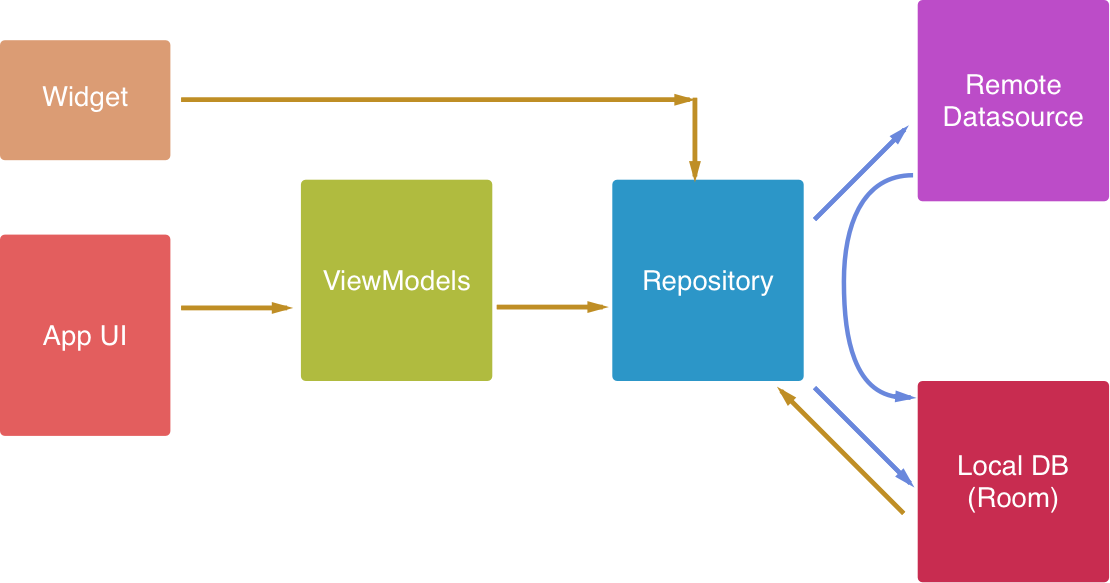
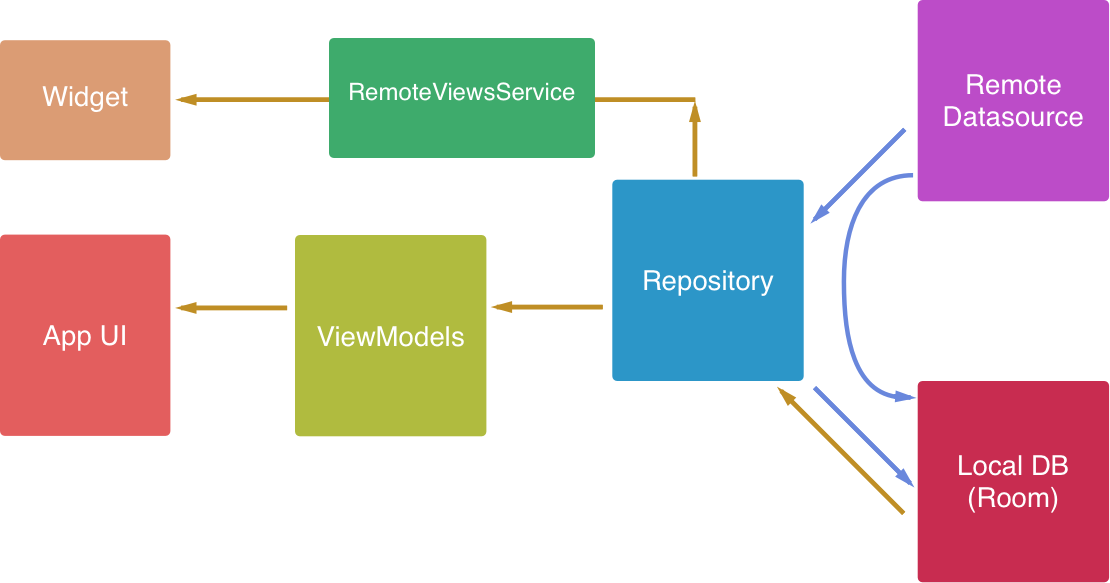
changed repository pattern image and deleted unused widget and code

diff --git a/app/src/main/java/org/drulabs/petescafe/widget/StepWidgetService.java b/app/src/main/java/org/drulabs/petescafe/widget/StepWidgetService.java
@@ -32,11 +32,13 @@ public class StepWidgetService extends RemoteViewsService {
         private Context context;
         private List<Recipe> recipes;
         private RecipeRepository recipeRepository;
+        private int appWidgetId;
 
         IngredientFactory(Context applicationContext, Intent intent) {
             context = applicationContext;
             AppComponent appComponent = ((CafeApp) context.getApplicationContext())
                     .getAppComponent();
+            appWidgetId = intent.getIntExtra(EXTRA_WIDGET_ID, -1);
 
             recipeRepository = appComponent.getRecipeRepository();
         }
@@ -71,11 +73,6 @@ public class StepWidgetService extends RemoteViewsService {
             rv.setImageViewResource(R.id.img_step_cake_resource, WidgetUtils
                     .getDrawableResId(recipe.getName()));
 
-//            boolean isOddPosition = (position % 2 == 0);
-//            rv.setInt(R.id.rl_step_widget_holder, "setBackgroundColor",
-//                    isOddPosition ? Color.parseColor("#DDEC862E") : Color.parseColor
-//                            ("#DD43A715"));
-
             // Set fill in Intent
             Intent fillInIntent = new Intent();
             Bundle extras = new Bundle();
@@ -91,9 +88,6 @@ public class StepWidgetService extends RemoteViewsService {
 
         @Override
         public RemoteViews getLoadingView() {
-            // TODO This is an intended comment by Kaushal (handle this later)
-            // You can create a custom loading view (for instance when getViewAt() is slow.) If you
-            // return null here, you will get the default loading view.
             return null;
         }
 
